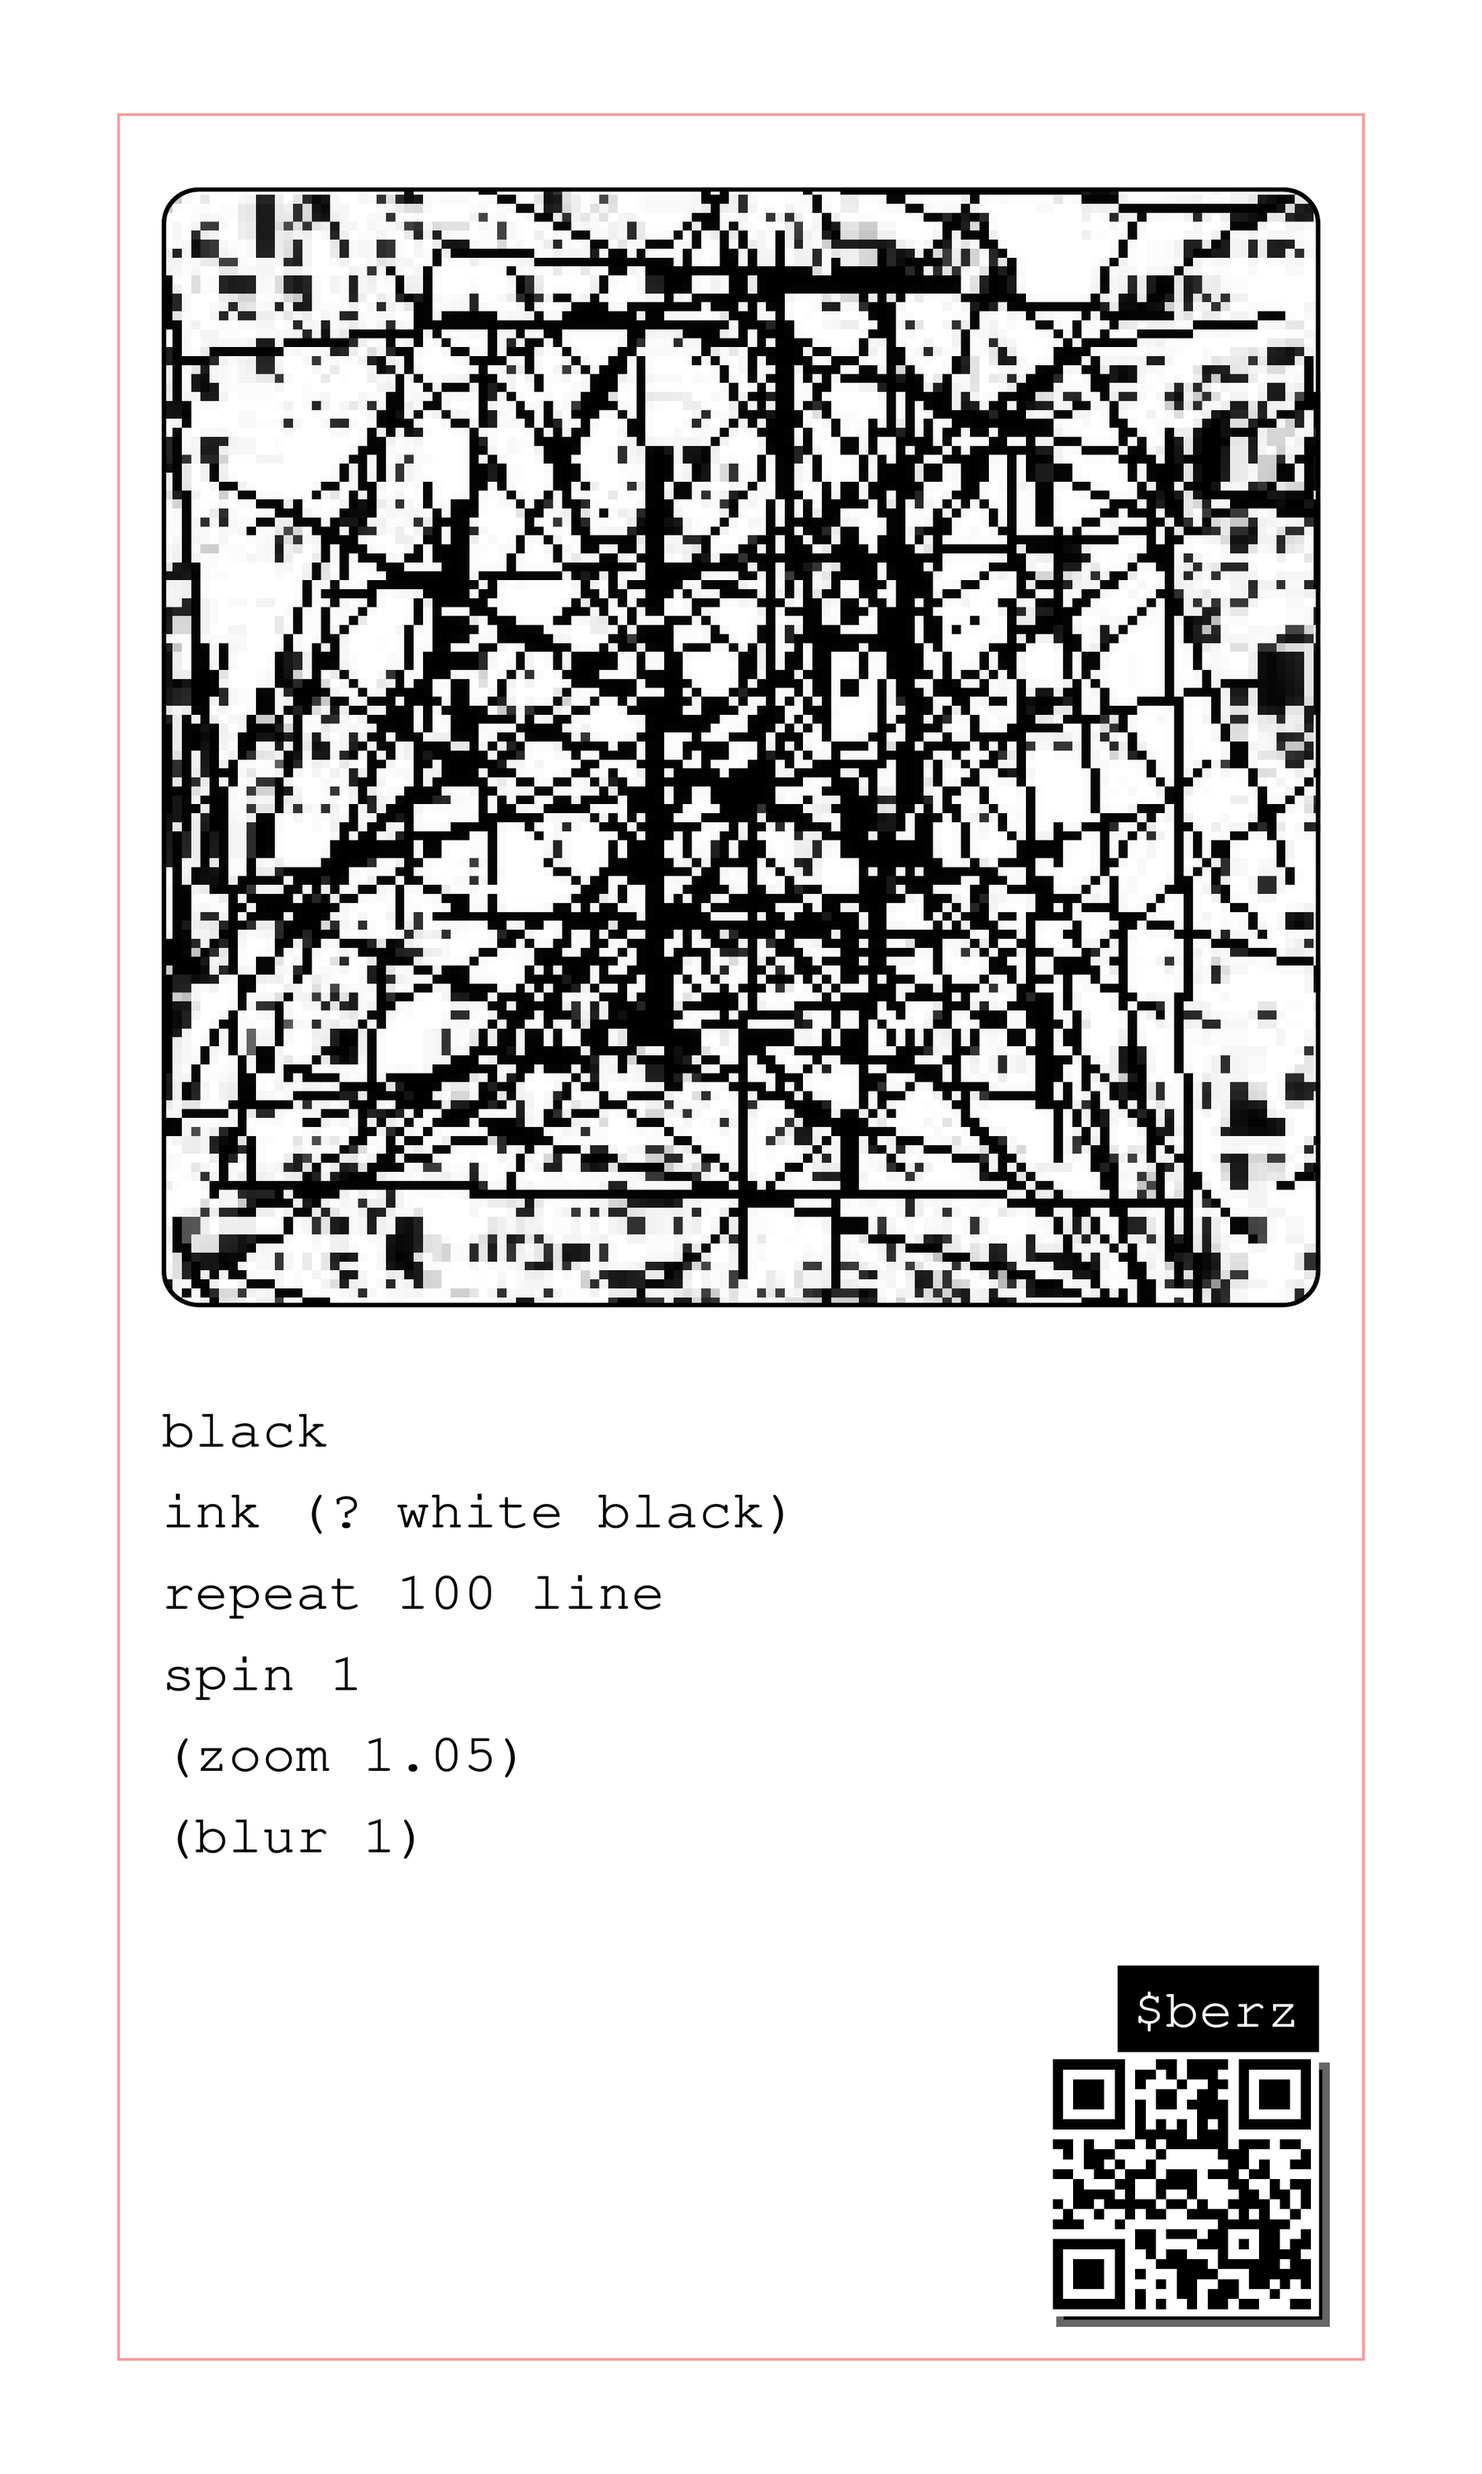
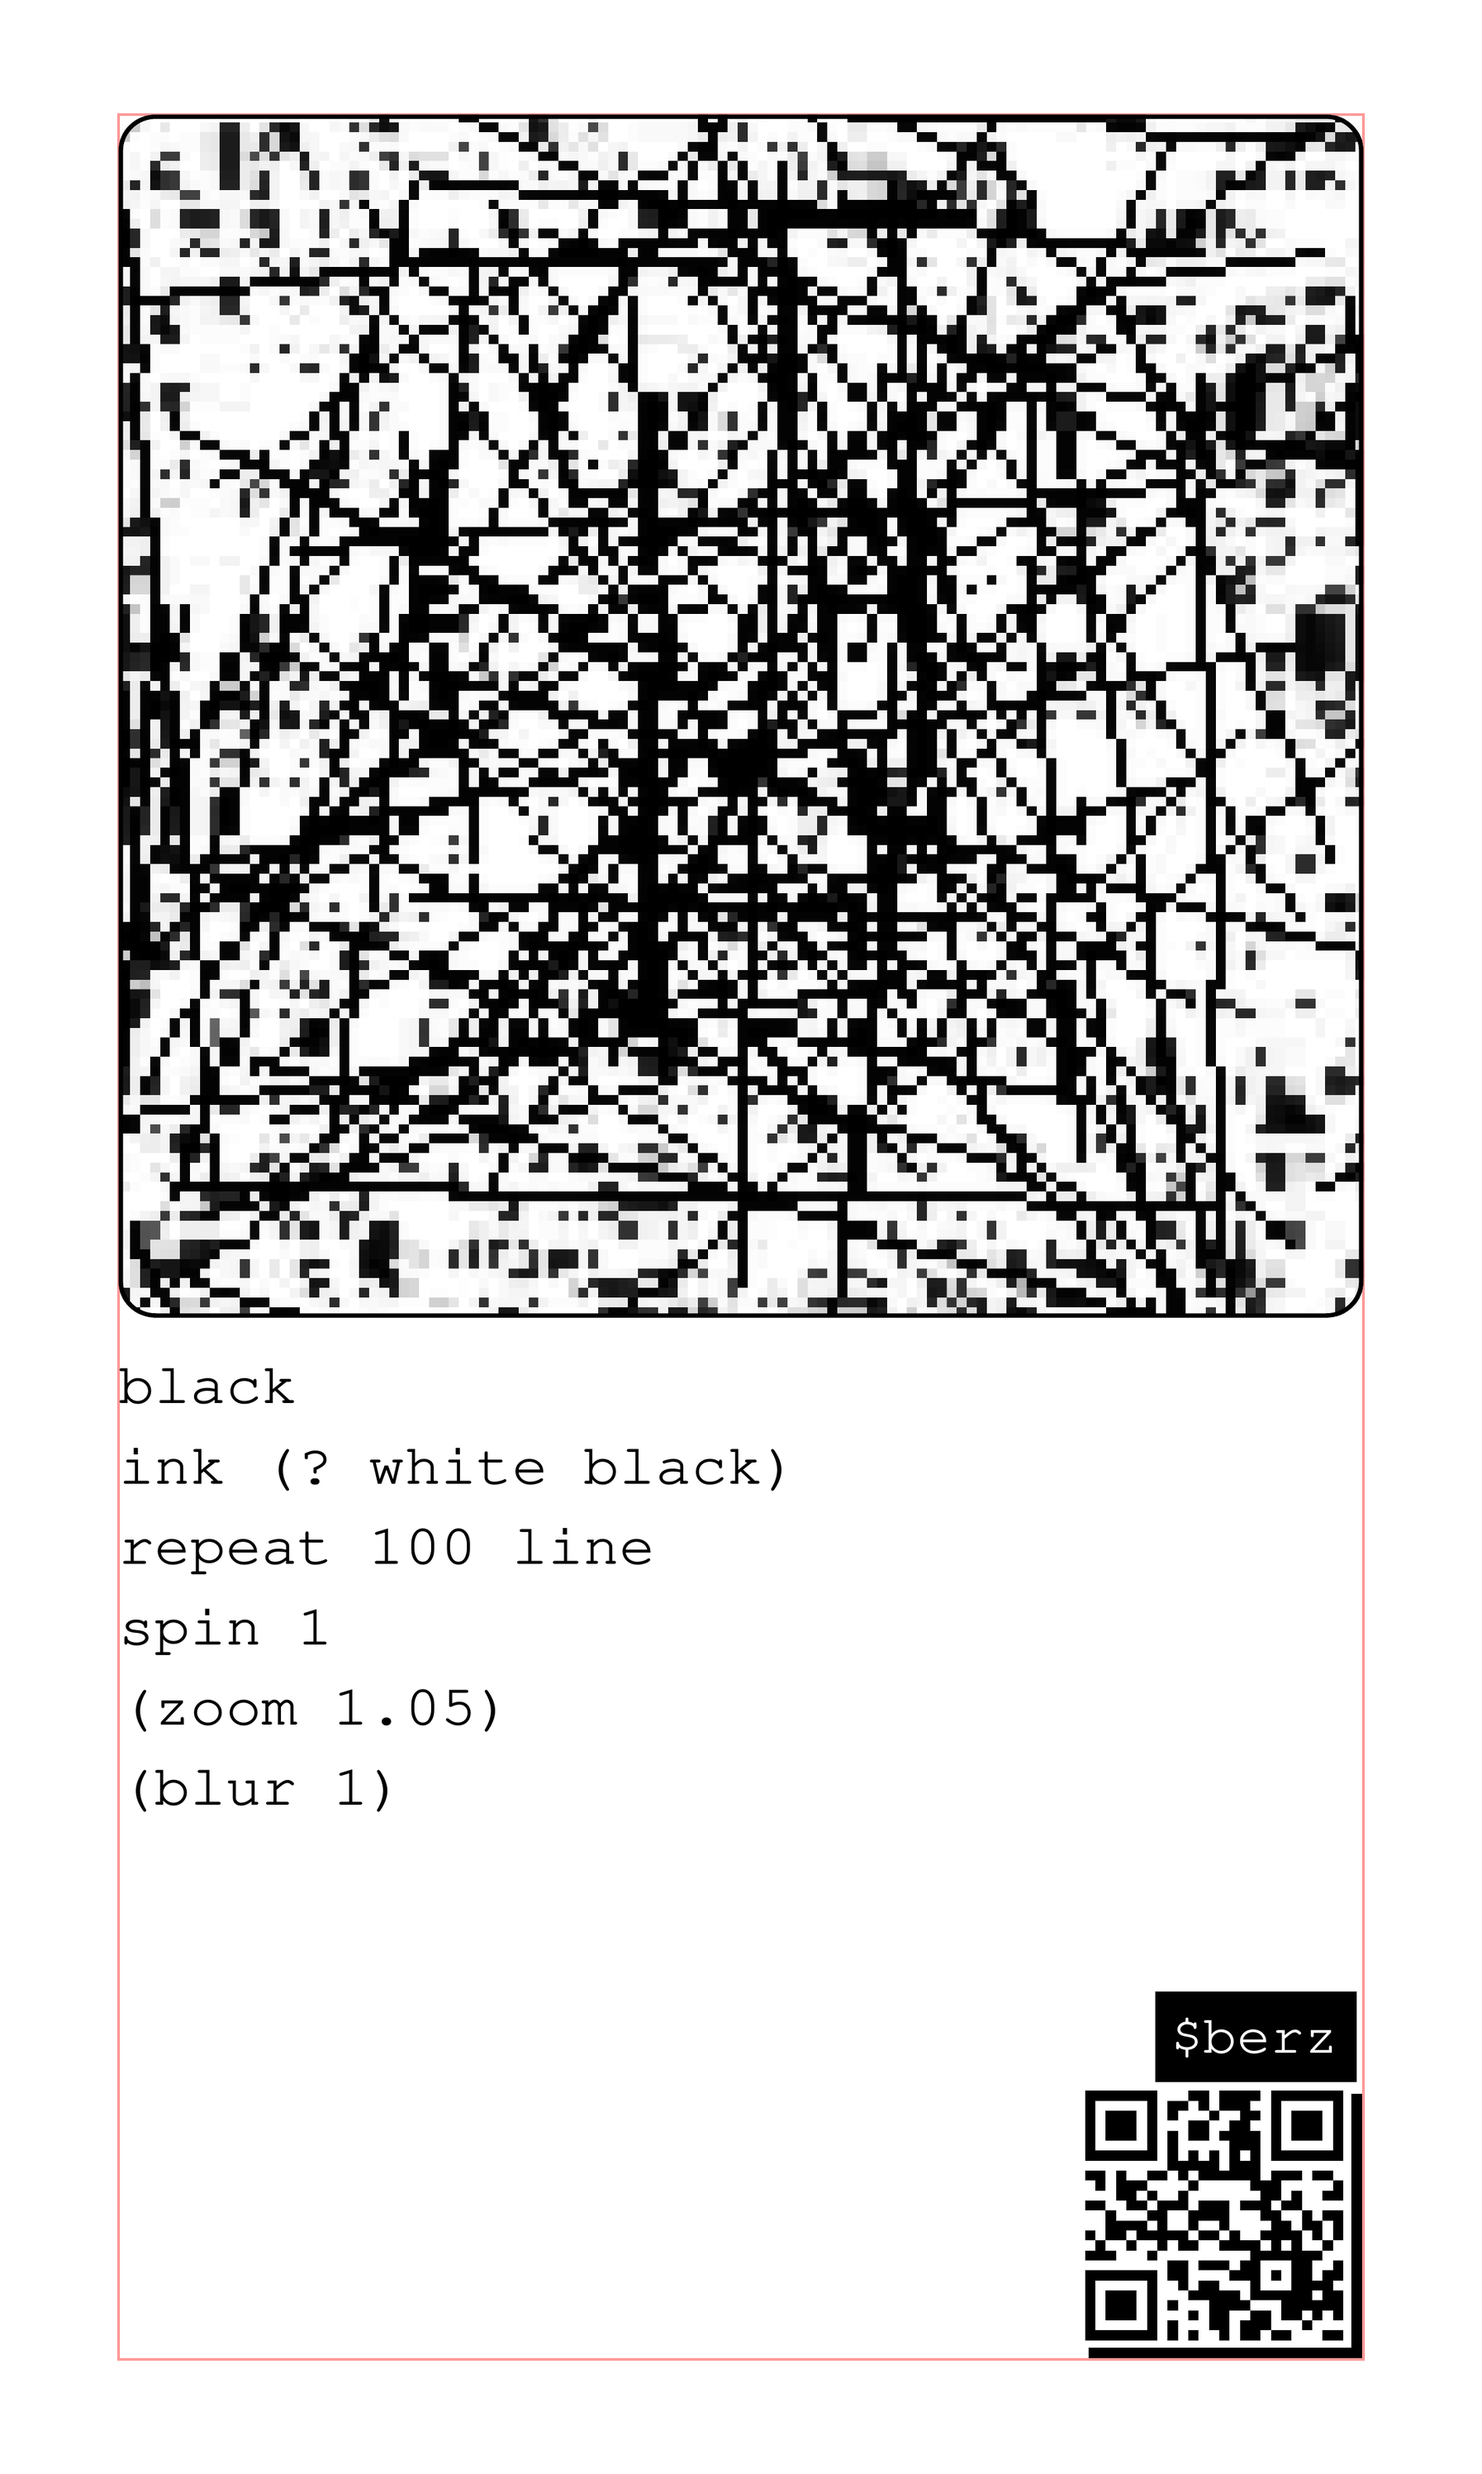
Refine sosoft card layout

diff --git a/sosoft/card.tex b/sosoft/card.tex
@@ -31,10 +31,17 @@
   Path=../system/public/type/webfonts/,
   Extension=.ttf
 ]
-\setmonofont{Nimbus Mono PS}
+\setmonofont[
+  UprightFont={Nimbus Mono PS:style=Regular},
+  ItalicFont={Nimbus Mono PS:style=Italic},
+  BoldFont={Nimbus Mono PS:style=Bold},
+  BoldItalicFont={Nimbus Mono PS:style=Bold Italic},
+]{Nimbus Mono PS}
 
 \definecolor{ink}{RGB}{0,0,0}
 \definecolor{faint}{RGB}{120,120,120}
+\newcommand{\safetyinset}{0.22in}
+\newcommand{\safewidth}{2.31in}
 
 \lstdefinestyle{kidlisp-card}{
   basicstyle=\ttfamily\fontsize{7.5pt}{12pt}\selectfont\color{ink},
@@ -53,35 +60,34 @@
 % === Safety margin guide ===
 \begin{tikzpicture}[remember picture, overlay]
   \draw[red, line width=0.3pt, opacity=0.4]
-    ([xshift=0.22in, yshift=-0.22in]current page.north west)
+    ([xshift=\safetyinset, yshift=-\safetyinset]current page.north west)
     rectangle
-    ([xshift=-0.22in, yshift=0.22in]current page.south east);
+    ([xshift=-\safetyinset, yshift=\safetyinset]current page.south east);
 \end{tikzpicture}
 
-\vspace*{-0.3in}
+\vspace*{-0.26in}
 
 % === $berz screenshot with rounded corners ===
-\begin{center}
-  \begin{tikzpicture}
-    \clip[rounded corners=5pt] (0,0) rectangle (2.15in,2.15in);
-    \node[anchor=south west, inner sep=0pt] at (0,0)
-      {\includegraphics[width=2.15in, height=2.15in]{berz-screenshot.png}};
-    \draw[black, line width=1.2pt, rounded corners=5pt] (0,0) rectangle (2.15in,2.15in);
-  \end{tikzpicture}
-\end{center}
+\noindent\hspace*{-0.08in}%
+\begin{tikzpicture}
+  \clip[rounded corners=5pt] (0,0) rectangle (\safewidth,\safewidth);
+  \node[anchor=south west, inner sep=0pt] at (0,0)
+    {\includegraphics[width=\safewidth, height=\safewidth]{berz-screenshot.png}};
+  \draw[black, line width=1.2pt, rounded corners=5pt] (0,0) rectangle (\safewidth,\safewidth);
+\end{tikzpicture}\par
 
-\vspace{-0.05in}
+\vspace{0.03in}
 
 % === Source code ===
 \begingroup\offinterlineskip
-\ttfamily\fontsize{7.5pt}{7.5pt}\selectfont
-\noindent\begin{tabular}{@{}l@{}}
-\rule{0pt}{9pt}black\\
-\rule{0pt}{9pt}ink (? white black)\\
-\rule{0pt}{9pt}repeat 100 line\\
-\rule{0pt}{9pt}spin 1\\
-\rule{0pt}{9pt}(zoom 1.05)\\
-\rule{0pt}{9pt}(blur 1)\\
+\ttfamily\bfseries\fontsize{8pt}{8pt}\selectfont
+\noindent\hspace*{-0.08in}\begin{tabular}{@{}l@{}}
+\rule{0pt}{8.75pt}black\\
+\rule{0pt}{8.75pt}ink (? white black)\\
+\rule{0pt}{8.75pt}repeat 100 line\\
+\rule{0pt}{8.75pt}spin 1\\
+\rule{0pt}{8.75pt}(zoom 1.05)\\
+\rule{0pt}{8.75pt}(blur 1)\\
 \end{tabular}
 \endgroup
 
@@ -90,16 +96,16 @@
 % === QR code + label in bottom-right corner ===
 \begin{tikzpicture}[remember picture, overlay]
   \node[anchor=south east, inner sep=0pt]
-    at ([xshift=-0.3in, yshift=0.8in]current page.south east)
+    at ([xshift=-0.23in, yshift=0.75in]current page.south east)
     {\colorbox{black}{%
       \rule[-1pt]{0pt}{6.5pt}%
       \kern-1pt{\ttfamily\fontsize{7.5pt}{7.5pt}\selectfont\color{white}\$berz}\kern-0.5pt%
     }};
-  \node[anchor=south east, inner sep=1pt, fill=black!60]
-    at ([xshift=-0.28in, yshift=0.28in]current page.south east)
+  \node[anchor=south east, inner sep=1pt, fill=black]
+    at ([xshift=-\safetyinset, yshift=\safetyinset]current page.south east)
     {\rule{0.48in}{0.48in}};
   \node[anchor=south east, inner sep=1pt, fill=white]
-    at ([xshift=-0.3in, yshift=0.3in]current page.south east)
+    at ([xshift=-0.24in, yshift=0.24in]current page.south east)
     {\includegraphics[width=0.48in]{qr-berz.eps}};
 \end{tikzpicture}
 
